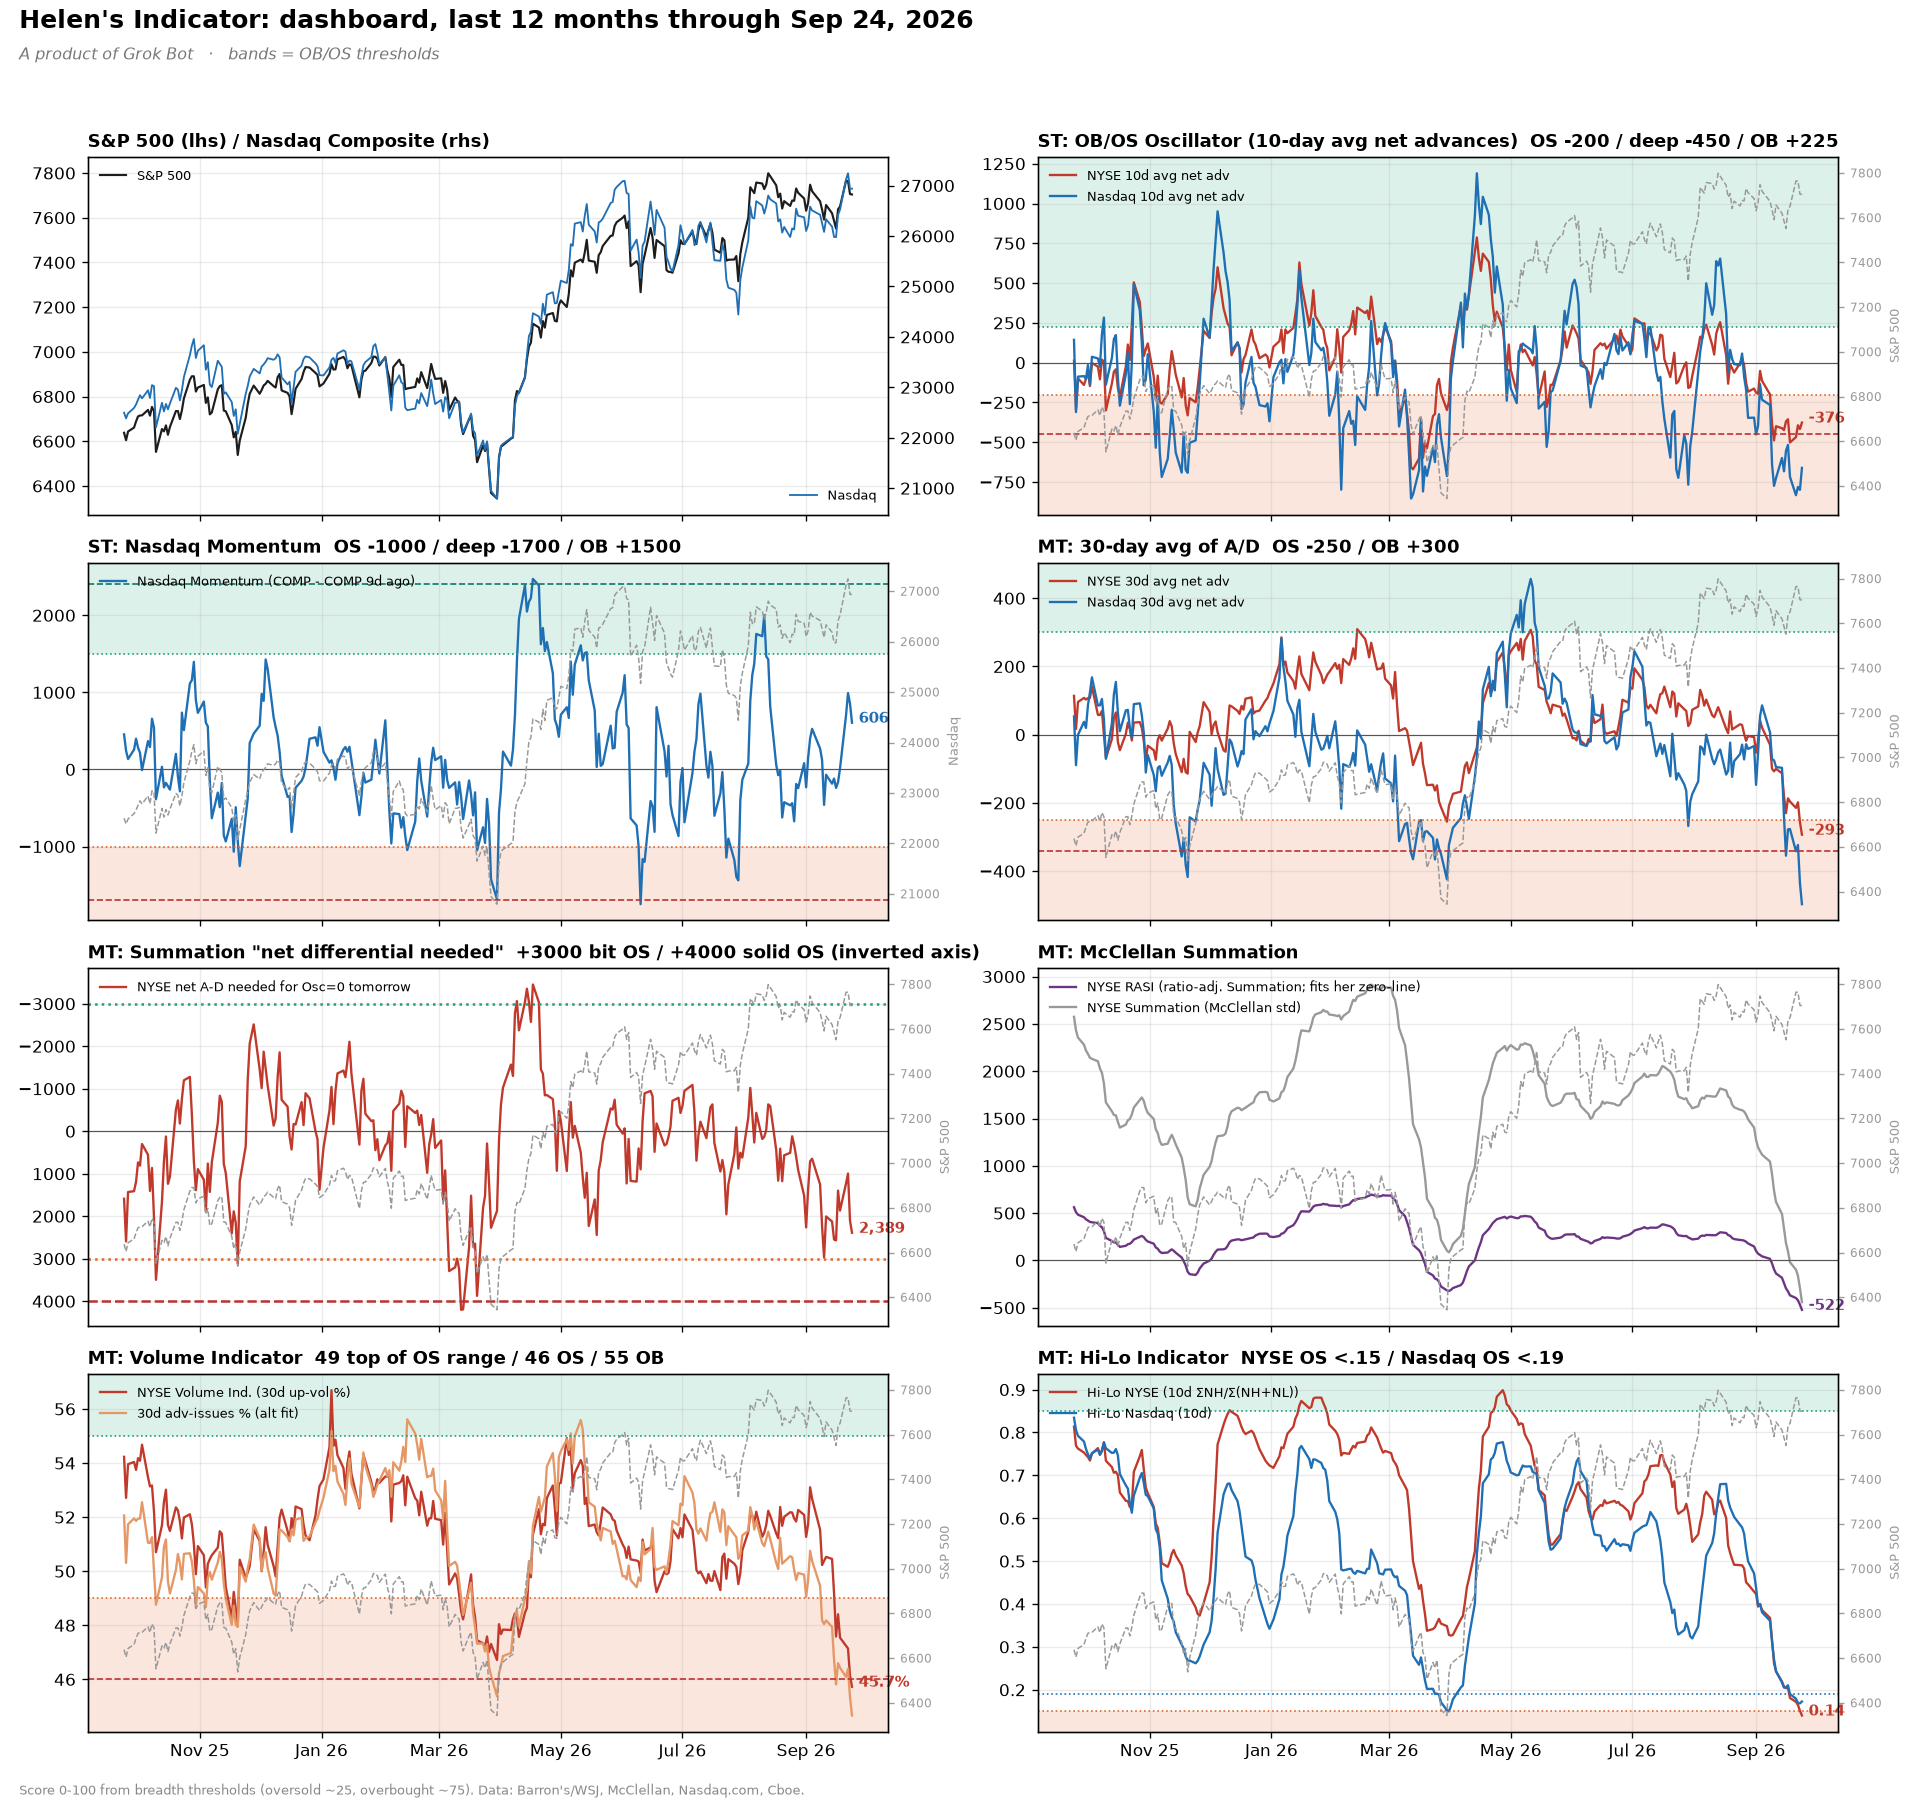
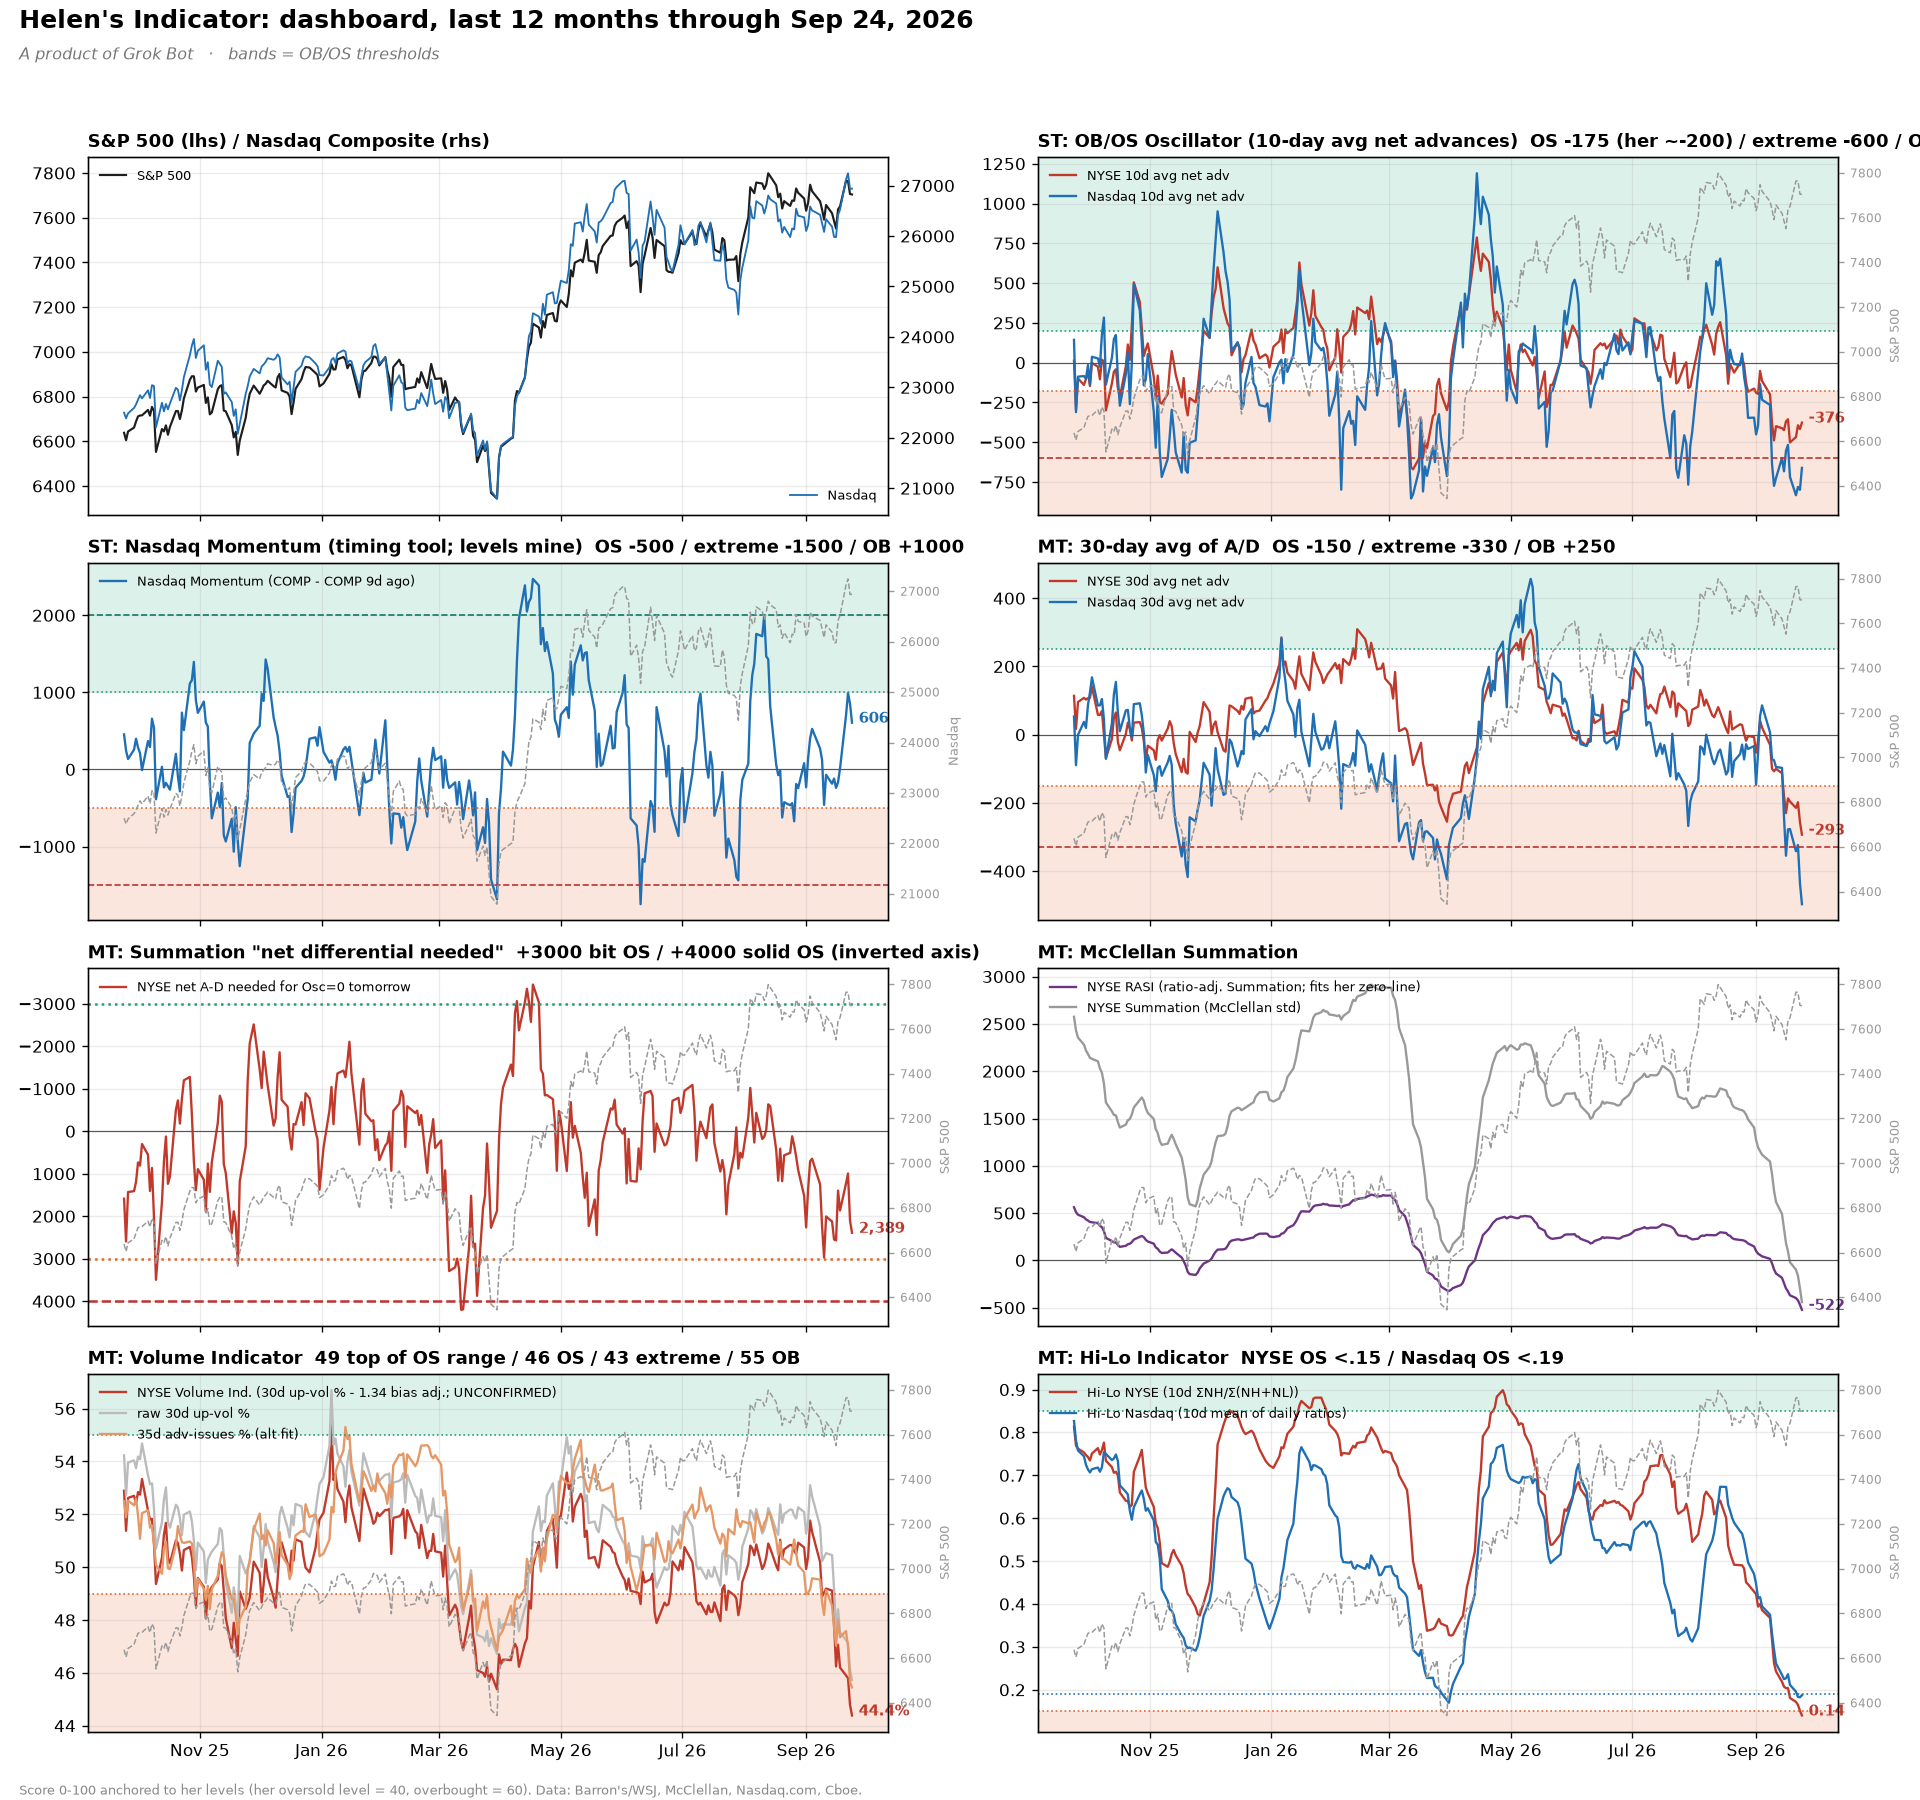
Update 2026-09-25 14:05 EDT

diff --git a/index.html b/index.html
@@ -32,6 +32,12 @@ td.v{white-space:nowrap;font-variant-numeric:tabular-nums;font-weight:700;text-a
 .legend{font-size:12px;color:var(--mut);display:flex;gap:14px;flex-wrap:wrap;margin-top:6px}.legend i{display:inline-block;width:14px;height:3px;vertical-align:middle;margin-right:5px}
 .note{color:var(--mut);font-size:12.5px;margin-top:14px;line-height:1.5}
 a{color:#7fb3ff}
+.gate{margin-top:14px;border-radius:14px;padding:14px 16px;border:2px solid;display:flex;gap:16px;align-items:flex-start;flex-wrap:wrap}
+.gate.no{border-color:#e0a82c;background:#2e2615}.gate.yes{border-color:#1fb58f;background:#15332b}
+.gate .flag{font-size:13px;color:var(--mut);text-transform:uppercase;letter-spacing:.6px;font-weight:600}
+.gate .big{font-size:34px;font-weight:800;line-height:1.05}.gate.no .big{color:#f0b93a}.gate.yes .big{color:#1fb58f}
+.gate .hd{font-weight:700;font-size:16px;margin-bottom:4px}.gate ul{margin:4px 0 0;padding-left:18px}.gate li{margin:2px 0}
+.gate .ok{color:#1fb58f;font-weight:700}.gate .miss{color:#f0b93a;font-weight:700}.gate .sm{color:var(--mut);font-size:12.5px;margin-top:6px}
 .hdr{display:flex;justify-content:space-between;align-items:center;flex-wrap:wrap;gap:6px}
 svg text{font-family:inherit}
 @media(max-width:600px){table{font-size:13px}td.s{white-space:normal}.tag{font-size:11px}th,td{padding:8px 4px}.desc{font-size:11px}header h1{font-size:26px}}
@@ -44,11 +50,13 @@ svg text{font-family:inherit}
   <div class="by">A product of Grok Bot</div>
   <div class="stamp" id="stamp">Loading…</div>
 </header>
+<div class="gate no" id="gate"><div><div class="flag">Good oversold?</div><div class="big" id="gflag">…</div></div>
+  <div style="flex:1;min-width:260px"><div class="hd" id="ghead"></div><ul id="greasons"></ul><div class="sm" id="gdrop"></div><div class="sm" id="grule"></div></div></div>
 <div class="grid">
   <div class="card">
     <h2>Composite breadth gauge</h2>
     <svg id="gauge" viewBox="0 0 440 270" width="100%"></svg>
-    <div style="text-align:center;margin-top:-4px">Now: <span id="curzone" class="zone"></span></div>
+    <div style="text-align:center;margin-top:-4px">Now: <span id="curzone" class="zone"></span> · Good oversold: <b id="gflag2"></b></div>
     <div class="subs">
       <div class="card"><h2>Short-term</h2><svg id="gST" viewBox="0 0 440 270" width="100%"></svg><div id="stz" class="zone"></div></div>
       <div class="card"><h2>Medium-term</h2><svg id="gMT" viewBox="0 0 440 270" width="100%"></svg><div id="mtz" class="zone"></div></div>
@@ -71,6 +79,10 @@ svg text{font-family:inherit}
   NYSE and Nasdaq oscillators, Nasdaq Momentum, 30-day A-D, Summation "net needed", Volume Indicator and Hi-Lo Indicator) mapped onto a 0–100 scale.
   It is <b>not</b> a number she publishes. Short-term = 10-day NYSE Oscillator + Nasdaq Momentum; Medium-term = 30-day A-D, net-needed, Volume Indicator, Hi-Lo.
   Rows marked "context" are shown for reference and are not in the score. Zones: 0–20 Extreme Oversold · 20–40 Oversold · 40–60 Neutral · 60–80 Overbought · 80–100 Extreme Overbought.
+  Each component's score is anchored so that <b>her own oversold level = 40</b> (the edge of the Oversold zone) and her overbought level = 60; "Extreme" is reserved for readings beyond what she called merely oversold.
+  Weights: NYSE Oscillator 40%, Nasdaq Momentum 10%, 30-day A-D 14.3%, net-needed 14.3%, Volume Indicator 7.1% (formula unconfirmed, bias-adjusted), Hi-Lo NYSE 7.1%, Hi-Lo Nasdaq 7.1%.
+  <b>Good oversold</b> (her rule) = short-term AND medium-term oversold AND bearish sentiment (10-day total put/call ≥ .97, "top of the page"); a bare "Oversold" reading without it is not her buy signal.
+  Updated Sep 25, 2026 after an independent review.
   Not investment advice. <span id="src"></span>
   <br>Static charts: <a href="obos_gauge.png">gauge</a> · <a href="obos_gauge_components.png">components</a> · <a href="obos_score_history.png">history</a> · <a href="obos_dashboard.png">dashboard</a> · <a href="data.json">data.json</a>
 </div>
@@ -127,8 +139,13 @@ function render(d){D=d;
   gauge(document.getElementById('gST'),d.short_term.score,true);gauge(document.getElementById('gMT'),d.medium_term.score,true);
   for(const [id,o] of [['stz',d.short_term],['mtz',d.medium_term]]){const e=document.getElementById(id);e.textContent=o.zone;e.className='zone z'+zi(o.score)}
   document.getElementById('badges').innerHTML=d.badges.map(b=>`<div class="row"><div><div class="l">${esc(b.label)}</div><div class="z">${esc(b.zone)}</div><div class="d">${b.date?new Date(b.date+'T12:00:00').toLocaleDateString('en-US',{month:'short',day:'numeric',year:'numeric'}):''}</div></div><div class="pill p${zi(b.score)}">${b.score==null?'–':Math.round(b.score)}</div></div>`).join('');
-  document.getElementById('comps').innerHTML=d.components.map(k=>{const i=k.scored?zi(k.score):ziName(k.status),[ec,fc]=zc(i);
-    return `<tr><td>${esc(k.label)} <span class="grp">· ${esc(k.group)}</span><div class="desc">${esc(k.desc)}</div></td><td class="v">${esc(k.display)}</td><td class="s"><span class="tag" style="color:${ec};border-color:${ec};background:${fc}">${esc(k.status)}${k.scored&&k.score!=null?' · '+Math.round(k.score):''}</span>${k.scored?'':'<div class="desc">context</div>'}</td></tr>`}).join('');
+  const g=d.good_oversold;if(g){const box=document.getElementById('gate');box.className='gate '+(g.value?'yes':'no');
+    document.getElementById('gflag').textContent=g.flag;const g2=document.getElementById('gflag2');g2.textContent=g.flag+(g.value?'':' (complacent)'.replace(' (complacent)',g.conditions.bearish_sentiment?'':' (no bearish sentiment)'));g2.style.color=g.value?'#1fb58f':'#f0b93a';document.getElementById('ghead').textContent=g.headline;
+    document.getElementById('greasons').innerHTML=g.reasons.map(r=>{const m=/: met$/.test(r);return `<li>${esc(r.replace(/: (met|missing)$/,''))}: <span class="${m?'ok':'miss'}">${m?'met':'missing'}</span></li>`}).join('');
+    document.getElementById('gdrop').innerHTML='<b>Drop-off math:</b> '+esc(g.dropoff.text);
+    document.getElementById('grule').textContent=g.rule+' '+g.not_included;}
+  document.getElementById('comps').innerHTML=d.components.map(k=>{const i=k.scored?zi(k.score):(k.tone!=null?k.tone:ziName(k.status)),[ec,fc]=zc(i);
+    return `<tr><td>${esc(k.label)} <span class="grp">· ${esc(k.group)}</span><div class="desc">${esc(k.desc)}</div></td><td class="v">${esc(k.display)}</td><td class="s"><span class="tag" style="color:${ec};border-color:${ec};background:${fc}">${esc(k.status)}${k.scored&&k.score!=null?' · '+k.score.toFixed(1):''}</span>${k.scored?(k.weight!=null?'<div class="desc">weight '+k.weight+'%</div>':''):'<div class="desc">'+(k.group=='Sentiment'?'gate input':'context')+'</div>'}</td></tr>`}).join('');
   document.getElementById('src').textContent='Data: '+d.sources+'.';hist();}
 async function load(){try{const r=await fetch('data.json?t='+Date.now(),{cache:'no-store'});if(r.ok)render(await r.json())}catch(e){console.error(e)}}
 document.getElementById('ranges').addEventListener('click',e=>{if(e.target.dataset.m==null)return;months=+e.target.dataset.m;document.querySelectorAll('#ranges button').forEach(b=>b.classList.toggle('on',b===e.target));hist()});
